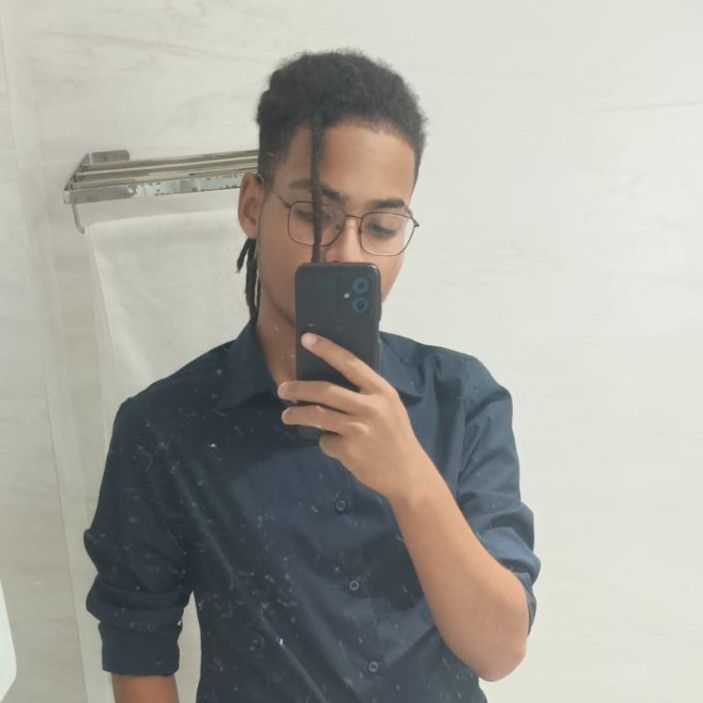
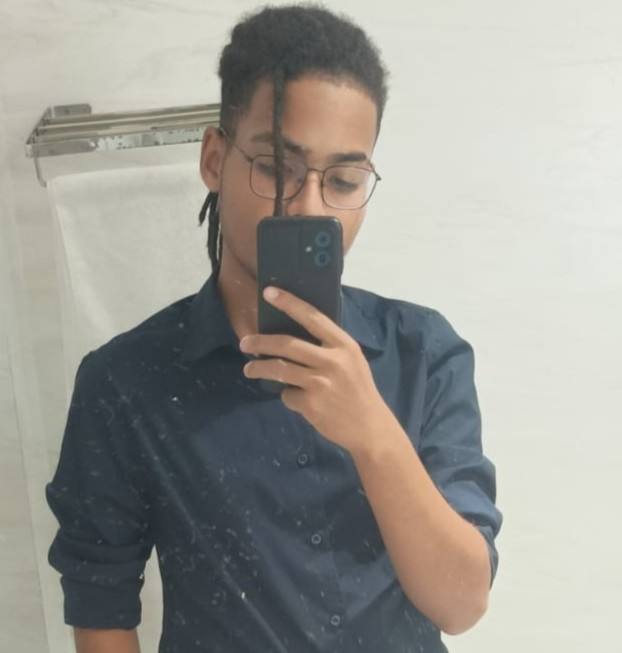
atualizações pós reunião

diff --git a/index.html b/index.html
@@ -33,10 +33,10 @@
     </nav>
 
     <section id="inicio" class="hero">
-        <div class="hero-bg-icon" data-lucide="droplets"></div>
+        <img class="hero-bg-icon" src="imgs/foto itan lab2.jpeg"></div>
         <div class="container">
             <div class="hero-content reveal">
-                <h1>Laboratório de Caracterização e <br> <span class="text-blue">Processamento de Petróleo</span>  LCPP</h1>
+                <h1>Laboratório de Caracterização e Processamento<br><span class="text-blue"> de Petróleo - LCPP</span></h1>
                 <p>Ciência e tecnologia de ponta na caracterização e processamento de petróleo.</p>
                 <div class="hero-btns">
                     <button class="btn-dark">Conhecer Laboratório</button>
@@ -61,7 +61,7 @@
                 <p>Pesquisadores</p>
             </div>
             <div class="stat-item">
-                <h2 class="counter" data-target="15">0</h2>
+                <h2 class="counter" data-target="7">0</h2>
                 <p>Anos de Operação</p>
             </div>
         </div>
@@ -77,17 +77,17 @@
             <div class="mvv-card reveal">
                 <div class="mvv-icon"><i data-lucide="target"></i></div>
                 <h3>Missão</h3>
-                <p>Desenvolver pesquisas científicas e tecnológicas voltadas ao setor de petróleo, biomassa, gás natural, biodiesel e biomateriais, promovendo a inovação, a integração entre universidade e indústria e a geração de soluções aplicadas que contribuam para o avanço energético, econômico e sustentável da sociedade.</p>
+                <p>Gerar conhecimento, inovação e soluções tecnológicas para os setores de petróleo, gás natural e energia, conectando universidade, indústria e sociedade.</p>
             </div>
             <div class="mvv-card reveal">
                 <div class="mvv-icon"><i data-lucide="eye"></i></div>
                 <h3>Visão</h3>
-                <p>Ser reconhecido como um centro de excelência em pesquisa e desenvolvimento no setor de petróleo e energias, destacando-se pela produção científica de alto impacto, inovação tecnológica e fortes parcerias com o setor industrial.</p>
+                <p> Ser referência nacional em pesquisa, inovação e desenvolvimento tecnológico para o setor energético.</p>
             </div>
             <div class="mvv-card reveal">
                 <div class="mvv-icon"><i data-lucide="shield-check"></i></div>
                 <h3>Valores</h3>
-                <p>Ética e integridade em todas as atividades de pesquisa, excelência científica e compromisso com a qualidade, responsabilidade socioambiental, parceria e colaboração com o setor produtivo e instituições de pesquisa, transparência nas relações institucionais, formação e capacitação de profissionais qualificados para o mercado de energia.</p>
+                <p>Excelência, Ética, Inovação, Sustentabilidade, Qualidade, Colaboração, Transparência e Compromisso com a sociedade.</p>
             </div>
         </div>
     </div>
@@ -100,26 +100,60 @@
             </div>
             <div class="timeline">
                 <div class="timeline-item reveal">
-                    <div class="timeline-date font-mono">2010</div>
+                    <div class="timeline-date font-mono">2014</div>
                     <div class="timeline-content">
                         <h4>Fundação do LCPP</h4>
-                        <p>Início das atividades com foco em polímeros para a indústria de óleo e gás.</p>
+                        <p>Início das atividades em conjunto com o Núcleo de Petróleo e Gás (NUPEG/UFS), com a missão de apoiar o ensino, a pesquisa científica e o desenvolvimento tecnológico.</p>
                     </div>
                 </div>
                 <div class="timeline-item reveal">
-                    <div class="timeline-date font-mono">2015</div>
+                    <div class="timeline-date font-mono">2019</div>
                     <div class="timeline-content">
-                        <h4>Expansão de Infraestrutura</h4>
-                        <p>Aquisição de equipamentos de microscopia eletrônica de última geração.</p>
+                        <h4>Nova gestão e reconhecimento pela ANP</h4>
+                        <p>Início da coordenação da Prof.ª Dr.ª Rosivânia da Paixão Silva Oliveira, marcando uma nova etapa de expansão, modernização e fortalecimento institucional do laboratório. No mesmo ano, o LCPP conquistou o credenciamento junto à Agência Nacional do Petróleo, Gás Natural e Biocombustíveis (ANP) (Credenciamento nº 0868/2019), tornando-se oficialmente habilitado para executar projetos de Pesquisa, Desenvolvimento e Inovação (PD&I).</p>
+                    </div>
+                </div>
+                <div class="timeline-item reveal">
+                    <div class="timeline-date font-mono">2020</div>
+                    <div class="timeline-content">
+                        <h4>Expansão da infraestrutura e inovação</h4>
+                        <p>Firmada parceria com o NEAT/CENPES/PETROBRAS, por meio do Projeto de Metrologia, que possibilitou a aquisição do protótipo para geração de emulsões destinado à avaliação de medidores de vazão. Também foi incorporada ao laboratório a Maquete da Unidade de Processamento de Gás Natural (UPGN) de Atalaia, considerada uma das mais completas ferramentas didáticas do país para o ensino do processamento de gás natural.</p>
+                    </div>
+                </div>
+                <div class="timeline-item reveal">
+                    <div class="timeline-date font-mono">2021</div>
+                    <div class="timeline-content">
+                        <h4>Fortalecimento da produção científica</h4>
+                        <p>Ampliação da produção científica com trabalhos aprovados e apresentados em eventos regionais e nacionais, fortalecendo a inserção acadêmica do LCPP.</p>
                     </div>
                 </div>
                 <div class="timeline-item reveal">
                     <div class="timeline-date font-mono">2022</div>
                     <div class="timeline-content">
-                        <h4>Certificação Internacional</h4>
-                        <p>Reconhecimento de excelência em ensaios de caracterização de petróleo.</p>
+                        <h4>Retomada das atividades presenciais</h4>
+                        <p>Retorno das aulas práticas presenciais, ampliando a formação técnica e científica dos estudantes de graduação e pós-graduação.</p>
                     </div>
                 </div>
+                <div class="timeline-item reveal">
+                    <div class="timeline-date font-mono">2023</div>
+                    <div class="timeline-content">
+                        <h4>Início da prestação de serviços</h4>
+                        <p>O laboratório passou a oferecer serviços tecnológicos especializados, fortalecendo sua interação com empresas, instituições públicas e projetos de pesquisa aplicada.</p>
+                    </div>
+                </div>
+                <div class="timeline-item reveal">
+                    <div class="timeline-date font-mono">2024</div>
+                    <div class="timeline-content">
+                        <h4>Formação de porfissionais para o mercado</h4>
+                        <p>Primeiras contratações de egressos da UFS por empresas parceiras, demonstrando o impacto do LCPP na formação de recursos humanos altamente qualificados para o setor de petróleo e gás.
+</p>
+                    </div>
+                </div>
+                <div class="timeline-item reveal">
+                    <div class="timeline-date font-mono">2025</div>
+                    <div class="timeline-content">
+                        <h4>Consolidação de parcerias estratégicas</h4>
+                        <p>Formalização da parceria institucional entre o LCPP e o Programa de Recursos Humanos PRH 58 ANP/UFS, fortalecendo a integração entre ensino, pesquisa, inovação e formação de recursos humanos altamente qualificados para o setor de petróleo, gás natural, energia e áreas correlatas. </p>
             </div>
         </div>
     </section>
@@ -139,6 +173,13 @@
                             <span>Coordenadora Geral</span>
                         </div>
                     </div>
+                    <div class="member-card principal">
+                        <div class="member-img"><img src="imgs/foto andrea.jpeg" alt="foto andrea" class="member-img"></div>
+                        <div class="member-info">
+                            <strong>Drª. Andrea Gonçalves</strong>
+                            <span>Responsável Técnica</span>
+                        </div>
+                    </div>
                 </div>
                 <div class="org-level">
                     <div class="member-card">
@@ -155,14 +196,28 @@
                             <span>EPS e G.N.</span>
                         </div>
                     </div>
-                        <div class="member-card">
+                    <div class="member-card">
                         <div class="member-img"><img src="imgs/foto rhaul.jpeg" alt="foto rhaul" class="member-img"></div>
                         <div class="member-info">
                             <strong>Prof. Dr. Rhaul Phillypi</strong>
                             <span>Fluido de Perfuração</span>
                         </div>
                     </div>
-                        <div class="member-card">
+                    <div class="member-card">
+                        <div class="member-img"><img src="imgs/foto nayane.jpeg" alt="foto nayane" class="member-img"></div>
+                        <div class="member-info">
+                            <strong>Maria Nayane</strong>
+                            <span>Descomissionamento</span>
+                        </div>
+                    </div>
+                    <div class="member-card">
+                        <div class="member-img"><img src="imgs/foto patricia.jpeg" alt="foto patricia" class="member-img"></div>
+                        <div class="member-info">
+                            <strong>Patrícia Carmelita</strong>
+                            <span>Pesquisa e Mercado</span>
+                        </div>
+                    </div>
+                    <div class="member-card">
                         <div class="member-img"><img src="imgs/foto bruno.jpeg" alt="foto bruno" class="member-img"></div>
                         <div class="member-info">
                             <strong>Bruno Nascimento</strong>
@@ -175,7 +230,7 @@
                         <div class="member-img"><img src="imgs/foto melissa.jpeg" alt="foto melissa" class="member-img"></div>
                         <div class="member-info">
                             <strong>Melissa Amorim</strong>
-                            <span>Estagiária e Pesquisador</span>
+                            <span>Estagiária e Pesquisadora</span>
                         </div>
                     </div>
                     <div class="member-card">
@@ -216,6 +271,50 @@
                         </div>
                     </div>
                 </div>
+                <div class="org-level">
+                    <div class="member-card">
+                        <div class="member-img"><img src="imgs/foto samir.jpeg" alt="foto samir" class="member-img"></div>
+                        <div class="member-info">
+                            <strong>Samir Lopes</strong>
+                            <span>Pesquisador</span>
+                        </div>
+                    </div>
+                    <div class="member-card">
+                        <div class="member-img"><img src="imgs/foto laura.jpeg" alt="foto laura" class="member-img"></div>
+                        <div class="member-info">
+                            <strong>Laura Alcantara</strong>
+                            <span>Pesquisadora</span>
+                        </div>
+                    </div>
+                    <div class="member-card">
+                        <div class="member-img"><img src="imgs/foto geanderson.jpeg" alt="foto geanderson" class="member-img"></div>
+                        <div class="member-info">
+                            <strong>Geanderson Alves</strong>
+                            <span>Pesquisador</span>
+                        </div>
+                    </div>
+                    <div class="member-card">
+                        <div class="member-img"><img src="imgs/foto edith.jpeg" alt="foto edith" class="member-img"></div>
+                        <div class="member-info">
+                            <strong>Edith Moraes</strong>
+                            <span>Pesquisadora</span>
+                        </div>
+                    </div>
+                    <div class="member-card">
+                        <div class="member-img"><img src="imgs/foto evandro.jpeg" alt="foto evandro" class="member-img"></div>
+                        <div class="member-info">
+                            <strong>Evandro Ciqueira</strong>
+                            <span>Pesquisador</span>
+                        </div>
+                    </div>
+                    <div class="member-card">
+                        <div class="member-img"><img src="imgs/foto leandro.jpeg" alt="foto leandro" class="member-img"></div>
+                        <div class="member-info">
+                            <strong>Leandro Sabino</strong>
+                            <span>Pesquisador</span>
+                        </div>
+                    </div>
+                </div>
             </div>
         </div>
     </section>
@@ -253,26 +352,26 @@
             <div class="card-grid">
                 <div class="card reveal">
                     <i data-lucide="droplets"></i>
-                    <h3>Química do Petróleo</h3>
-                    <p>Análise molecular e comportamento de fluidos complexos.</p>
+                    <h3>Petróleo</h3>
+                    <p>Caracterização físico-química, purificação e otimização de processos para melhoria da qualidade do petróleo.</p>
                     <code>REF_ID: LCPP_01</code>
                 </div>
                 <div class="card reveal">
-                    <i data-lucide="flask-conical"></i>
-                    <h3>Polímeros Avançados</h3>
-                    <p>Desenvolvimento de novos materiais e macromoléculas.</p>
+                    <i data-lucide="wrench-off"></i>
+                    <h3>Descomissionamento</h3>
+                    <p>Estudos de PD&I para desenvolvimento de tecnologias sustentáveis e biodegradáveis aplicadas ao descomissionamento de instalações, alinhados aos ODS.</p>
                     <code>REF_ID: LCPP_02</code>
                 </div>
                 <div class="card reveal">
-                    <i data-lucide="microscope"></i>
-                    <h3>Microscopia</h3>
-                    <p>Caracterização estrutural em nanoescala e superfícies.</p>
+                    <i data-lucide="wind"></i>
+                    <h3>Gás Natural</h3>
+                    <p>Processamento, condicionamento e desenvolvimento de tecnologias para agregação de valor ao gás natural.</p>
                     <code>REF_ID: LCPP_03</code>
                 </div>
                 <div class="card reveal">
-                    <i data-lucide="database"></i>
-                    <h3>Modelagem</h3>
-                    <p>Simulação computacional e análise de dados experimentais.</p>
+                    <i data-lucide="glass-water"></i>
+                    <h3>Água Produzida</h3>
+                    <p>Tratamento e desenvolvimento de soluções sustentáveis para reúso e mitigação de impactos ambientais.</p>
                     <code>REF_ID: LCPP_04</code>
                 </div>
             </div>
@@ -307,7 +406,6 @@
                 <tr><td>Razão de Solubilidade</td><td>Análise</td><td>API MPMS 20.1</td></tr>
                 <tr><td>SARA</td><td>Análise</td><td>ASTM D2007</td></tr>
                 <tr><td>PEV</td><td>Análise</td><td>ASTM D2892/ASTM D5236</td></tr>
-
                 <tr><td>Condutividade</td><td>Análise</td><td>Sob demanda</td></tr>
                 <tr><td>PH</td><td>Análise</td><td>Sob demanda</td></tr>
                 <tr><td>Potencial Elétrico</td><td>Análise</td><td>Sob demanda</td></tr>

diff --git a/style.css b/style.css
@@ -114,11 +114,10 @@ html {
 
 .hero-bg-icon {
     position: absolute;
-    right: -100px;
-    top: 10%;
-    width: 600px; height: 600px;
-    color: var(--azul-royal);
-    opacity: 0.05;
+    right: -50px;
+    top: 15%;
+    width:700px; height: 880px;
+    opacity: 1;
 }
 
 .hero h1 {
